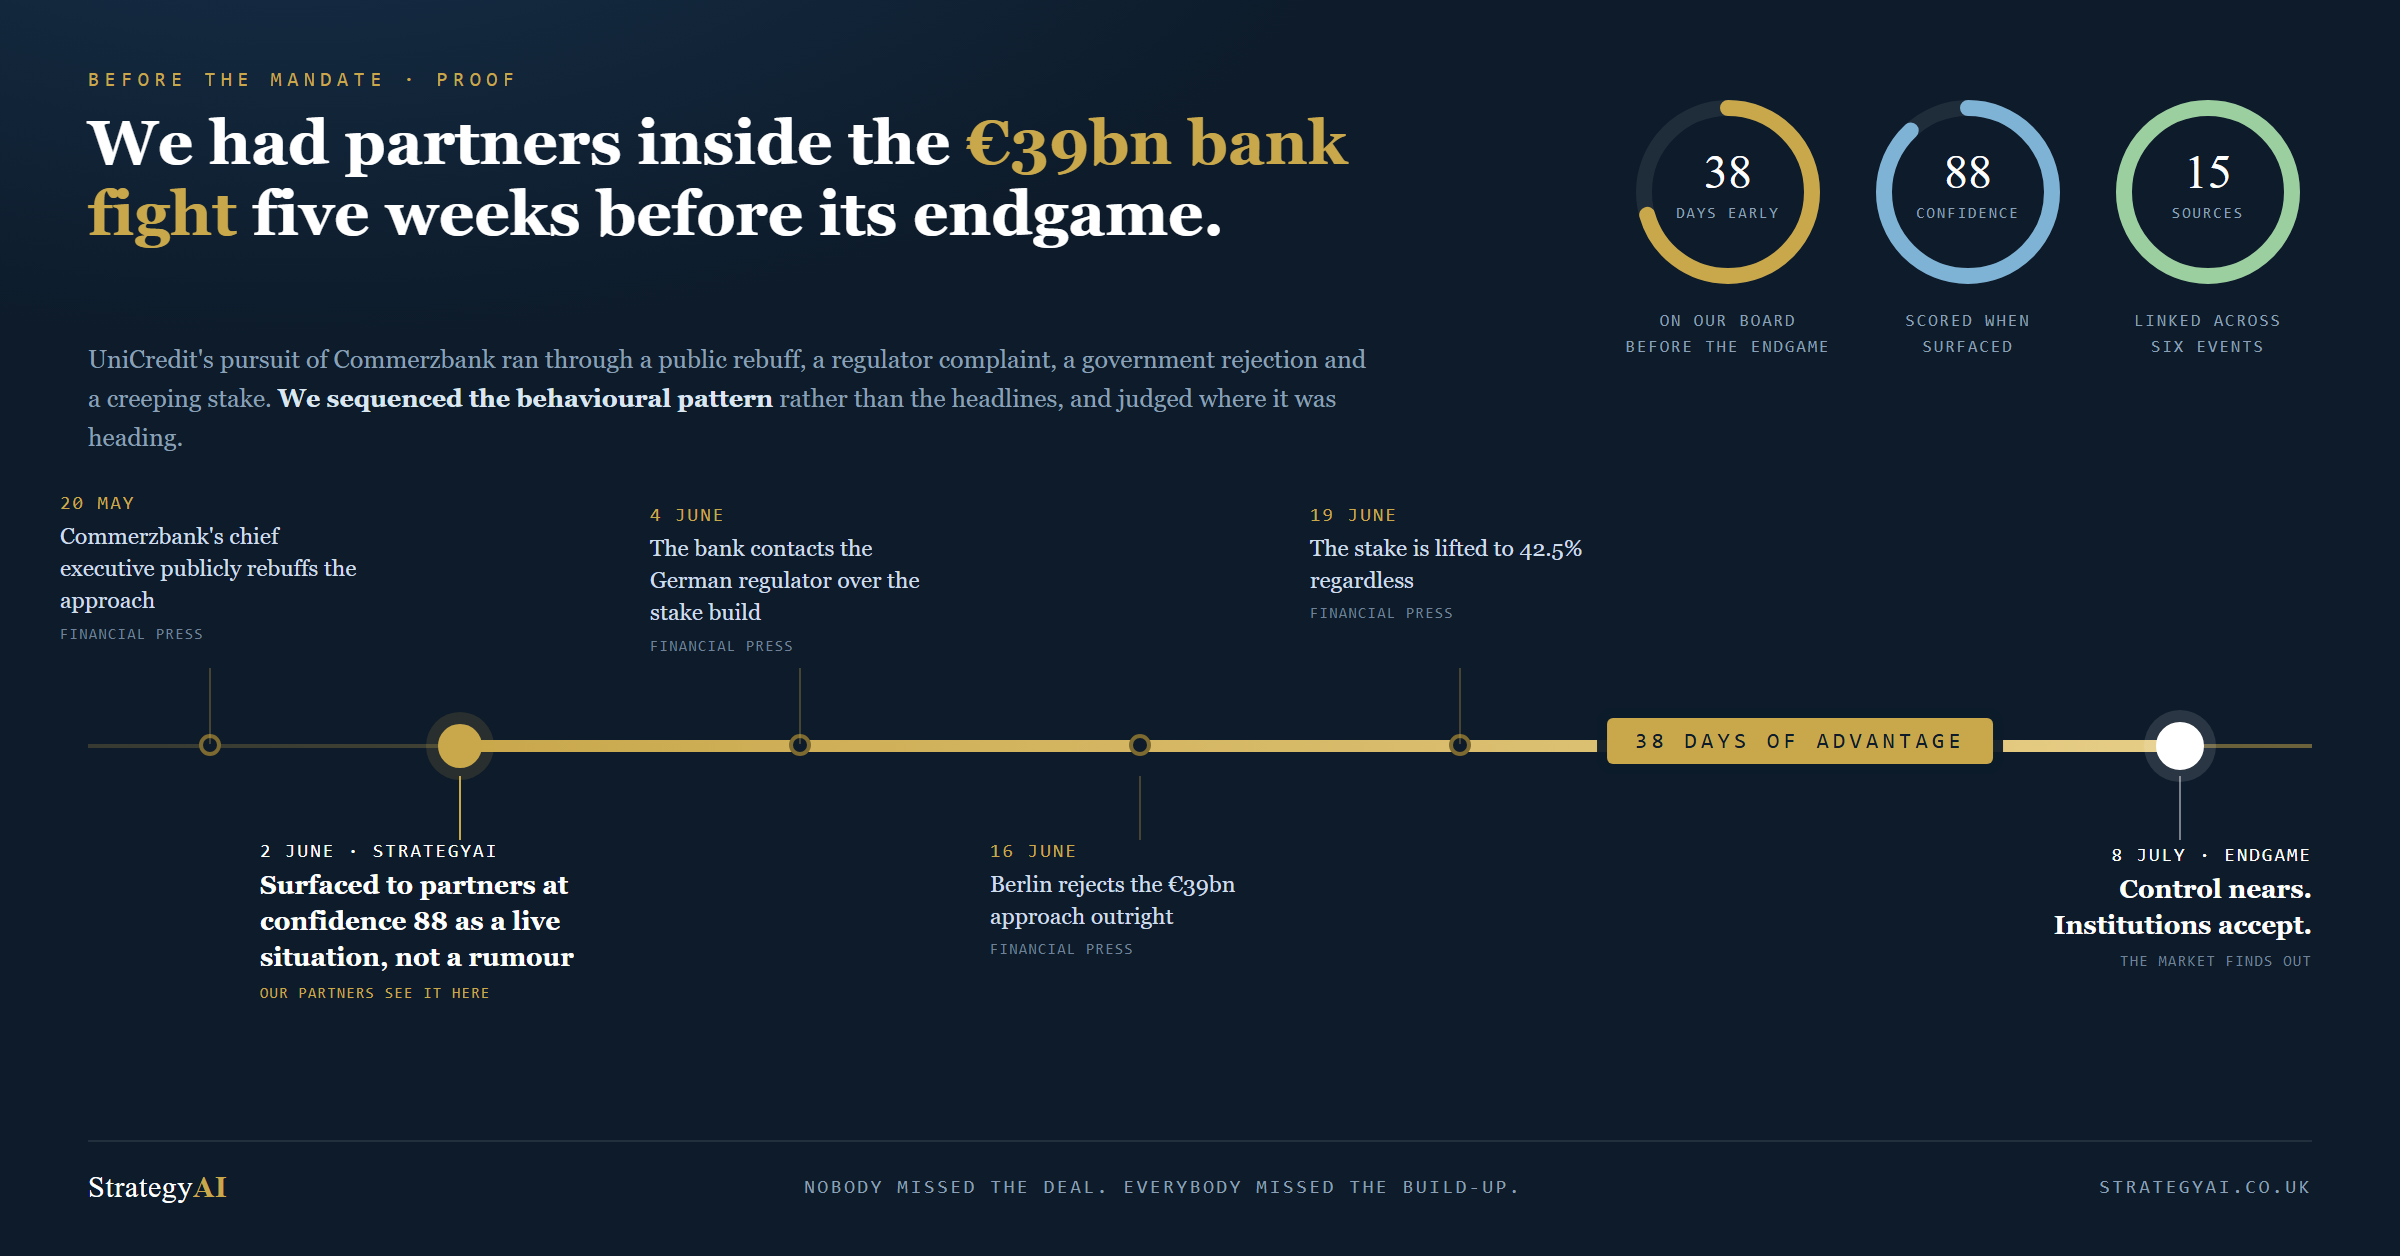
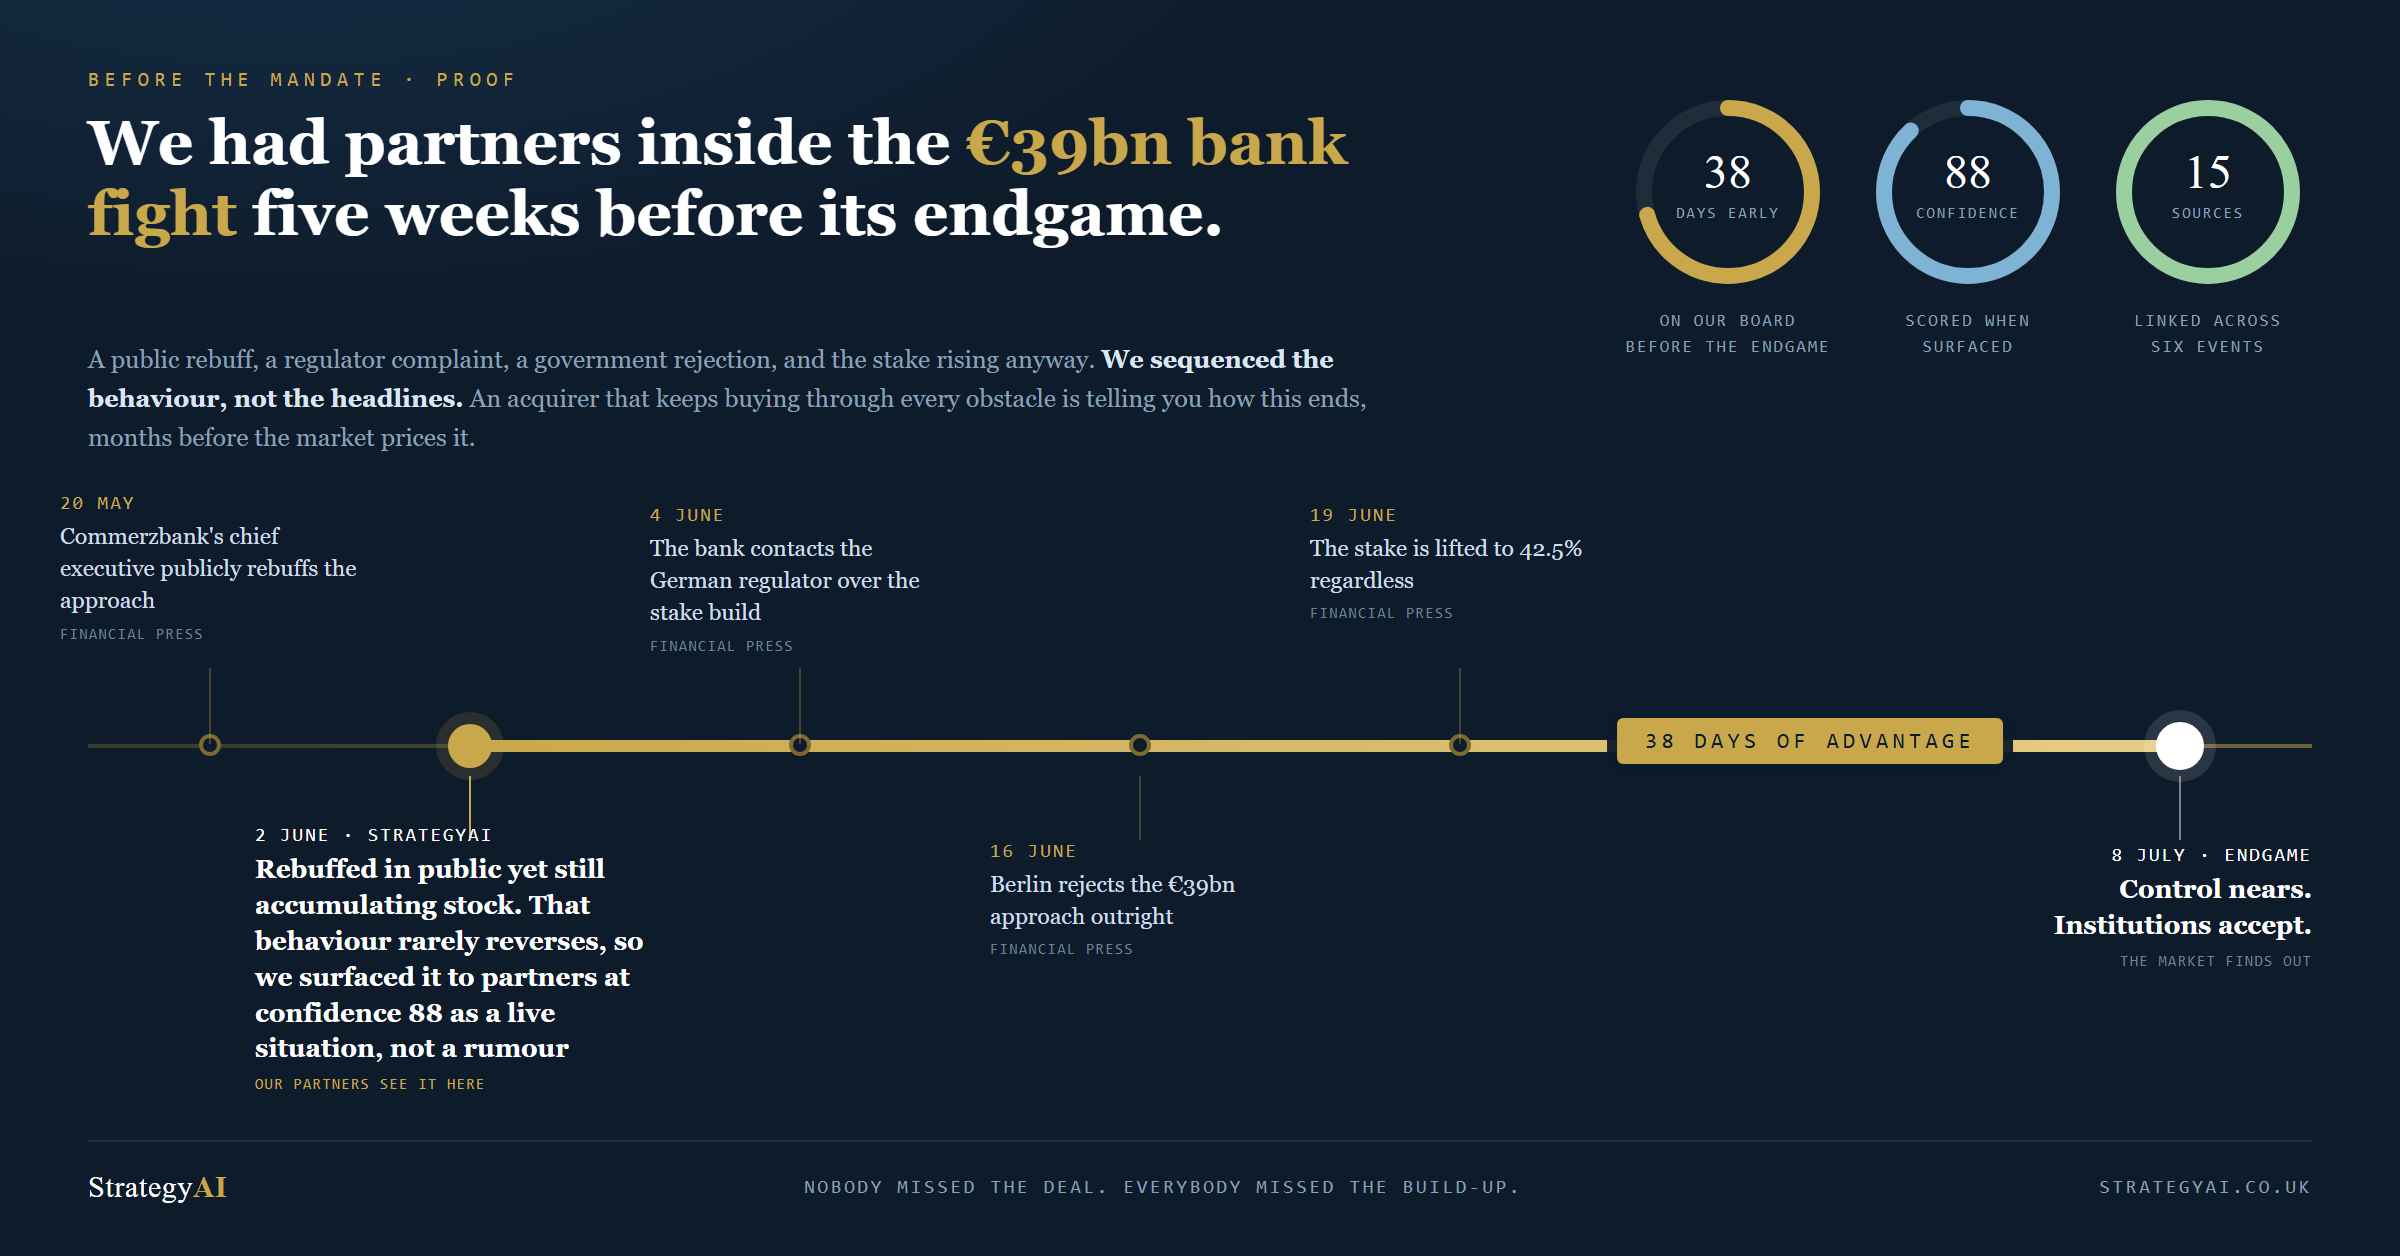
Put the behavioural reasoning into the partner marker on each card
The 'why we surfaced it' now sits on the StrategyAI marker itself rather than
as a separate later node, which keeps the chronology honest: for Commerzbank
we flagged it on 2 June, so a pattern marker dated later cannot be the reason
we shared it.

No hiring claim added to easyJet or Commerzbank: we hold no hiring signals for
either, nor for UniCredit or Castlelake. Delivery Hero keeps its antitrust
hire because that signal is real.

diff --git a/catches/commerzbank.html b/catches/commerzbank.html
@@ -56,7 +56,7 @@
 <div class="card">
   <div class="eyebrow">Before the mandate · Proof</div>
   <h1>We had partners inside the <em>€39bn bank fight</em> five weeks before its endgame.</h1>
-  <p class="sub">UniCredit's pursuit of Commerzbank ran through a public rebuff, a regulator complaint, a government rejection and a creeping stake. <b>We sequenced the behavioural pattern</b> rather than the headlines, and judged where it was heading.</p>
+  <p class="sub">A public rebuff, a regulator complaint, a government rejection, and the stake rising anyway. <b>We sequenced the behaviour, not the headlines.</b> An acquirer that keeps buying through every obstacle is telling you how this ends, months before the market prices it.</p>
   <div class="dials"><div class="dial"><svg width="104" height="104" viewBox="0 0 104 104">
   <circle cx="52" cy="52" r="42" fill="none" stroke="rgba(255,255,255,.08)" stroke-width="8"/>
   <circle cx="52" cy="52" r="42" fill="none" stroke="#c9a84c" stroke-width="8"
@@ -78,13 +78,13 @@
 </svg><p>Linked across<br>six events</p></div></div>
   <div class="spine"></div>
   <div class="run" style="left:230px;width:860px"></div>
-  <div class="pill" style="left:900px">38 days of advantage</div>
+  <div class="pill" style="left:905px">38 days of advantage</div>
   <div class="n" style="left:105px"></div>
   <div class="stem" style="left:105px;top:334px;height:38px"></div>
   <div class="lbl" style="left:105px;top:246px"><div class="d">20 MAY</div><div class="t">Commerzbank's chief executive publicly rebuffs the approach</div><div class="s" style="">Financial press</div></div>
-  <div class="n flag" style="left:230px"></div>
-  <div class="stem" style="left:230px;top:388px;height:32px;background:var(--gold)"></div>
-  <div class="lbl hero" style="left:230px;top:420px;width:200px"><div class="d">2 JUNE · STRATEGYAI</div><div class="t">Surfaced to partners at confidence 88 as a live situation, not a rumour</div><div class="s" style="color:var(--gold)">Our partners see it here</div></div>
+  <div class="n flag" style="left:235px"></div>
+  <div class="stem" style="left:235px;top:388px;height:32px;background:var(--gold)"></div>
+  <div class="lbl hero" style="left:235px;top:412px;width:215px"><div class="d">2 JUNE · STRATEGYAI</div><div class="t">Rebuffed in public yet still accumulating stock. That behaviour rarely reverses, so we surfaced it to partners at confidence 88 as a live situation, not a rumour</div><div class="s" style="color:var(--gold)">Our partners see it here</div></div>
   <div class="n" style="left:400px"></div>
   <div class="stem" style="left:400px;top:334px;height:38px"></div>
   <div class="lbl" style="left:400px;top:252px"><div class="d">4 JUNE</div><div class="t">The bank contacts the German regulator over the stake build</div><div class="s" style="">Financial press</div></div>

diff --git a/catches/easyjet.html b/catches/easyjet.html
@@ -56,7 +56,7 @@
 <div class="card">
   <div class="eyebrow">Before the mandate · Proof</div>
   <h1>We tracked a <em>£5.7bn take-private</em> from first rumour to final bid.</h1>
-  <p class="sub">Castlelake's interest in easyJet surfaced on 30 May 2026. It was on our board the next day. <b>We sequenced the escalation</b>, the rejections, a second suitor circling, the return with a higher number, and lifted confidence at each step until the board agreed terms.</p>
+  <p class="sub">Castlelake's interest in easyJet surfaced on 30 May 2026. It was on our board the next day. <b>We read the behaviour, not the headline</b>: a rejected approach that keeps returning with a higher number is a pattern we track, and it told us terms were coming well before they did.</p>
   <div class="dials"><div class="dial"><svg width="104" height="104" viewBox="0 0 104 104">
   <circle cx="52" cy="52" r="42" fill="none" stroke="rgba(255,255,255,.08)" stroke-width="8"/>
   <circle cx="52" cy="52" r="42" fill="none" stroke="#c9a84c" stroke-width="8"
@@ -84,7 +84,7 @@
   <div class="lbl" style="left:105px;top:246px"><div class="d">30 MAY</div><div class="t">A US private credit firm is reported to be circling</div><div class="s" style="">Financial press</div></div>
   <div class="n flag" style="left:175px"></div>
   <div class="stem" style="left:175px;top:388px;height:32px;background:var(--gold)"></div>
-  <div class="lbl hero" style="left:175px;top:420px;width:200px"><div class="d">31 MAY · STRATEGYAI</div><div class="t">On the board the next morning at confidence 65, with the angle and the window</div><div class="s" style="color:var(--gold)">Our partners see it here</div></div>
+  <div class="lbl hero" style="left:175px;top:412px;width:210px"><div class="d">31 MAY · STRATEGYAI</div><div class="t">An opportunistic approach into a depressed share price, the profile that historically precedes a repeat bidder. On the board next morning with the angle and the window</div><div class="s" style="color:var(--gold)">Our partners see it here</div></div>
   <div class="n" style="left:350px"></div>
   <div class="stem" style="left:350px;top:334px;height:38px"></div>
   <div class="lbl" style="left:350px;top:252px"><div class="d">1 JUNE</div><div class="t">easyJet calls the timing opportunistic; shares jump 10%</div><div class="s" style="">Financial press</div></div>

diff --git a/catches/delivery-hero-linkedin.html b/catches/delivery-hero-linkedin.html
@@ -151,7 +151,7 @@
   <div class="stem" style="left:570px;top:388px;height:32px;background:var(--gold)"></div>
   <div class="lbl hero" style="left:570px;top:422px">
     <div class="d">2 JUNE · STRATEGYAI</div>
-    <div class="t">We sequenced the events, judged the pattern worth partners seeing, and gave them the angle and the window</div>
+    <div class="t">An antitrust hire alongside takeover chatter is a preparation pattern. We sequenced it, judged it worth partners seeing, and gave them the angle and the window</div>
     <div class="s" style="color:var(--gold)">Our partners see it here</div>
   </div>
 
